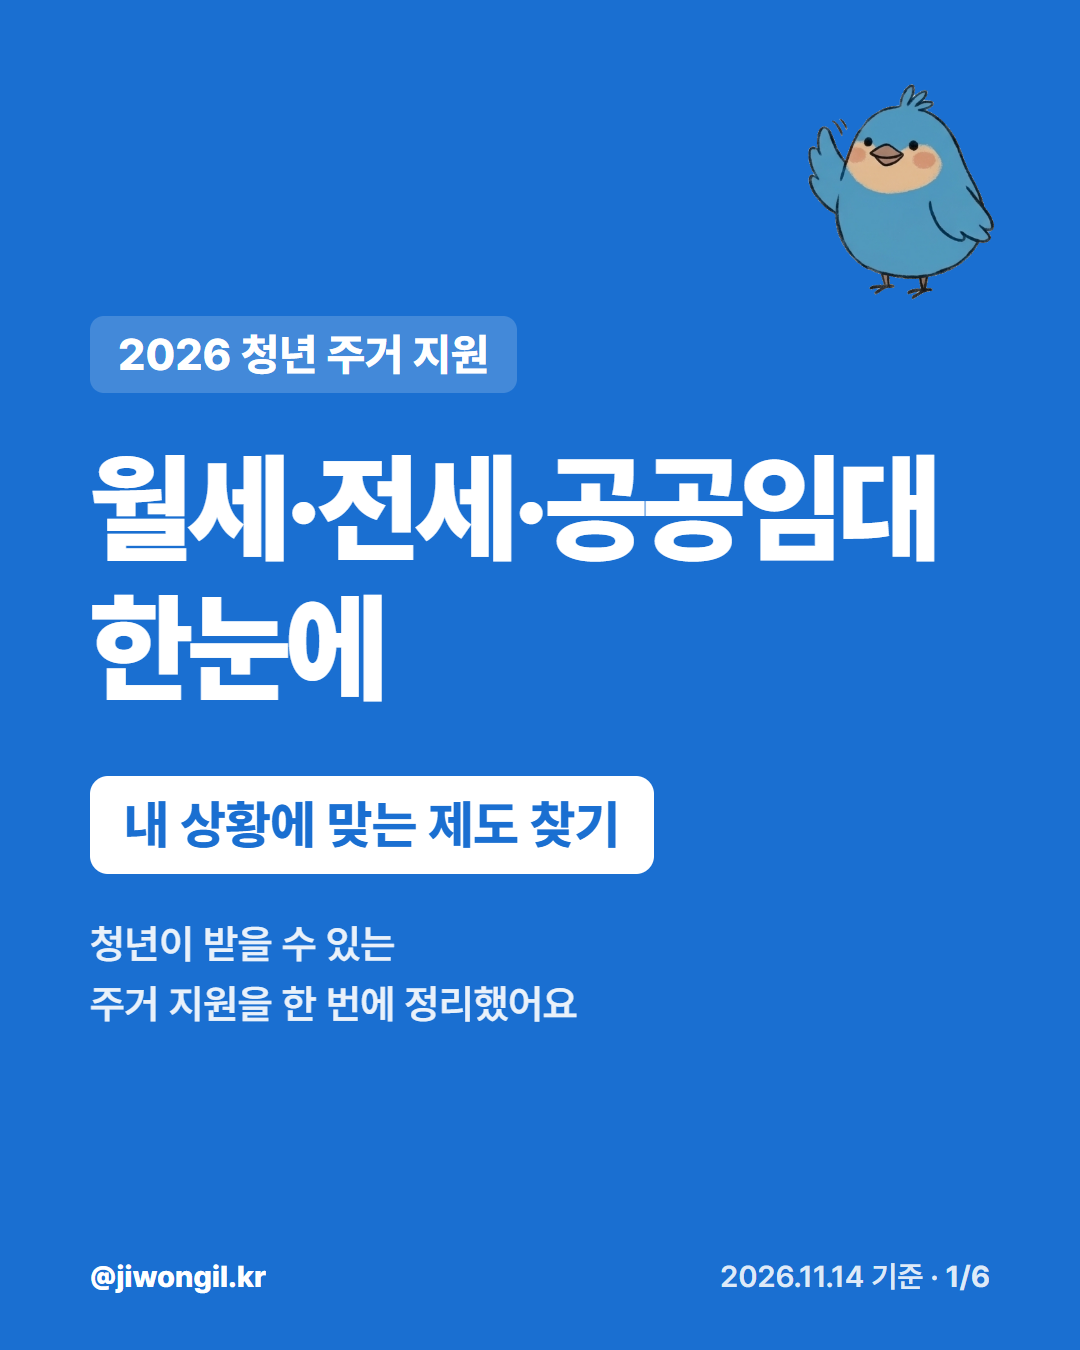
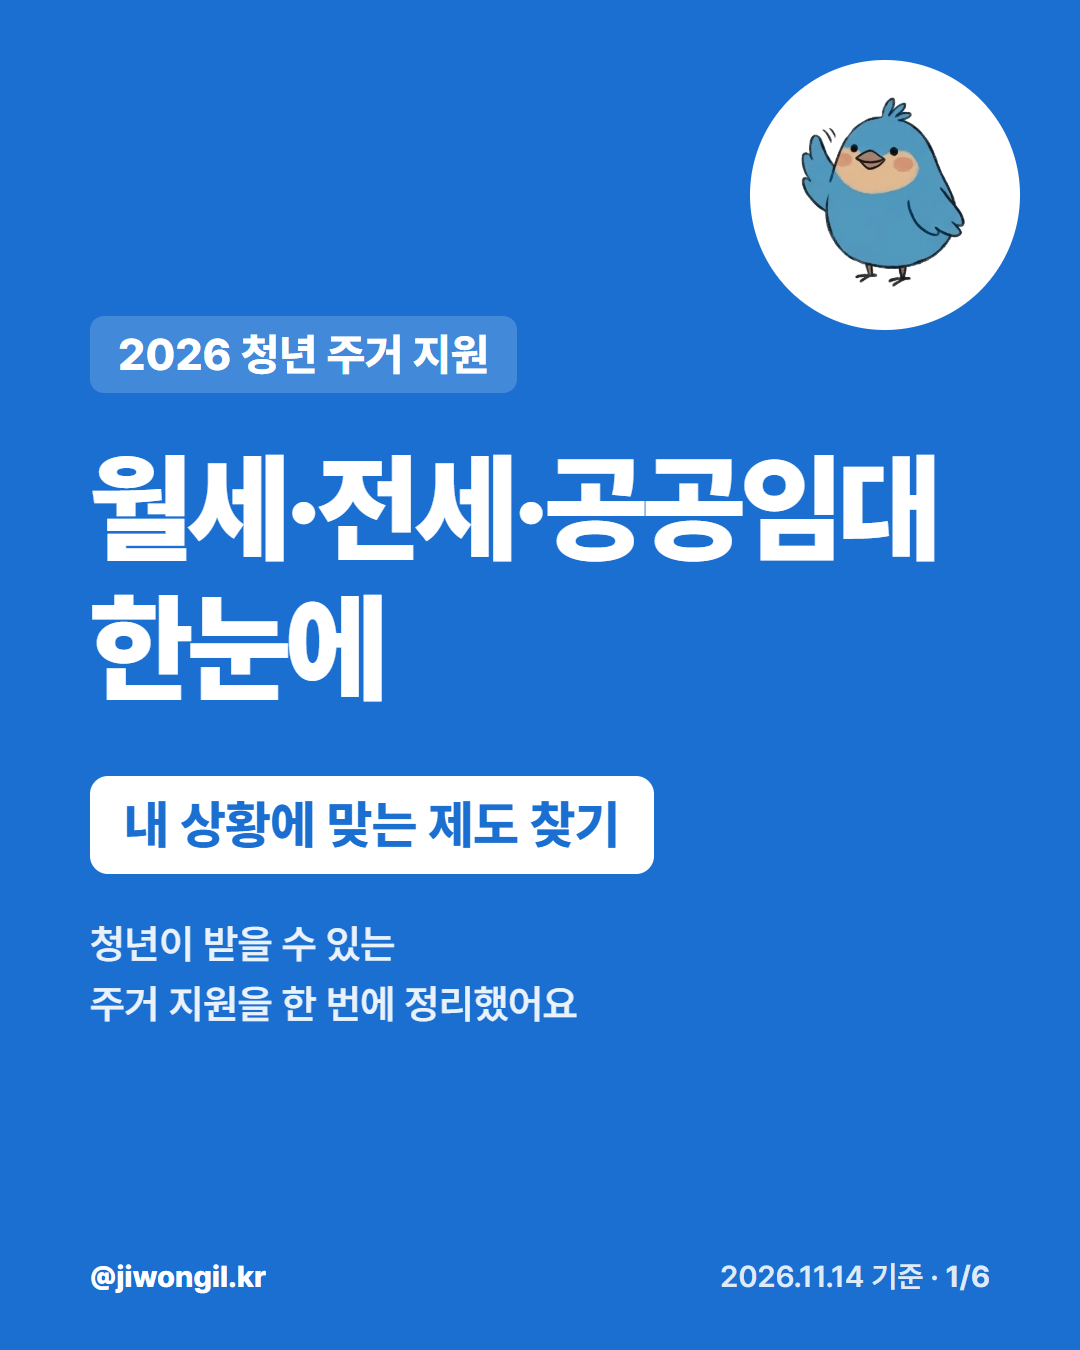
흐름도 7장 번호를 위→아래 한 번씩으로 재배치(디딤돌·버팀목·신혼전세·디딤씨앗·양육수당·통신감면·미숙아, Fable 검토 ⚠4 중 2 반영) + 인스타 cover 표지 새도 흰 원으로 통일·청년 주거 1장 재캡처

Changed region(s): [[0.6722, 0.0311, 0.9472, 0.2489]]

diff --git a/_tools/flow/premature-infant-medical-support-2026.html b/_tools/flow/premature-infant-medical-support-2026.html
@@ -1,17 +1,17 @@
 <!doctype html><html><head><meta charset="utf-8"><title>flow</title></head><body><script>
 // 번호 = 본문 "신청 순서" 단계 번호. 출생 보고·안내·지급 주체는 보건소(모자보건사업 안내 업무 흐름)
-window.FLOW = { height: 1220, label: "2026 미숙아·선천성이상아 의료비 지원",
+window.FLOW = { height: 1310, label: "2026 미숙아·선천성이상아 의료비 지원",
   note: { main: "아기 (최종) 퇴원일부터 6개월 안에 신청해요", sub: "출생신고 전이면 부모 주소지 관할 보건소에 신청" },
-  applicant: { y0: 340, y1: 1060, lines: ["부모"] },
+  applicant: { y0: 340, y1: 1160, lines: ["부모"] },
   boxes: [
-    { y: 340, h: 180, lines: [["title", "병원"], ["em", "서류 발급"]] },
-    { y: 640, h: 420, main: 1, lines: [["title", "보건소"], ["text", "지원 안내"], ["text", "신청 접수"], ["em", "의료비 지급"]] } ],
+    { y: 340, h: 200, main: 1, lines: [["title", "보건소"], ["text", "병원의 출생 보고 접수"], ["em", "지원 안내"]] },
+    { y: 620, h: 160, lines: [["title", "병원"], ["em", "서류 발급"]] },
+    { y: 860, h: 300, main: 1, lines: [["title", "보건소"], ["text", "신청 접수"], ["em", "의료비 지급"]] } ],
   arrows: [
-    { type: "out", y: 460, n: 2, label: "서류 받기", sub: ["영수증 등"] },
-    { type: "v", y0: 520, y1: 640, label: "출생 보고" },
-    { type: "out", y: 720, dash: 1, n: 1, label: "보건소\n안내 확인", sub: ["우편·문자", "접수 후 1개월 안"] },
-    { type: "in", y: 880, n: 3, label: "신청", sub: ["아기 주소지 관할"] },
-    { type: "out", y: 1010, n: 4, label: "지급", sub: ["한 달 안 원칙"] } ],
-  notesY: 1120, notes: ["온라인 신청: e보건소 공공보건포털, 아이마중 앱"],
+    { type: "out", y: 470, dash: 1, n: 1, label: "보건소\n안내 확인", sub: ["우편·문자", "접수 후 1개월 안"] },
+    { type: "out", y: 740, n: 2, label: "서류 받기", sub: ["영수증 등"] },
+    { type: "in", y: 960, n: 3, label: "신청", sub: ["아기 주소지 관할"] },
+    { type: "out", y: 1110, n: 4, label: "지급", sub: ["한 달 안 원칙"] } ],
+  notesY: 1220, notes: ["온라인 신청: e보건소 공공보건포털, 아이마중 앱"],
   foot: "2026.10.31 기준 · 출처: 보건복지부·복지로" };
 </script><script src="flow.js"></script></body></html>

diff --git a/_tools/flow/newborn-home-loan-2026.html b/_tools/flow/newborn-home-loan-2026.html
@@ -1,17 +1,17 @@
 <!doctype html><html><head><meta charset="utf-8"><title>flow</title></head><body><script>
-// 번호 = 본문 "어떻게 신청하나요?" 1~6. 3(자산심사)은 본문에 주체가 없어 메모로
+// 번호 = 본문 "어떻게 신청하나요?" 1~6. 3(자산심사)은 본문에 주체가 없어 메모로. 번호는 위에서 아래로 한 번씩만(11-14 사용자 지적)
 window.FLOW = { height: 1330, label: "2026 신생아 특례 디딤돌 대출",
   note: { steps: [[1, "대출조건 확인"]], sub: "신청은 소유권이전등기 전 · 이미 등기했다면 등기 접수 후 3개월 안" },
   applicant: { y0: 340, y1: 1140, lines: [] },
   boxes: [
-    { y: 340, h: 300, main: 1, lines: [["head", "온라인 신청"], ["title", "기금e든든"], ["text", "주택도시보증공사"]] },
-    { y: 740, h: 400, lines: [["title", "취급 은행"], ["text", "우리·국민·신한·농협·하나"], ["text", "소득·담보물 심사"], ["em", "대출 실행"]] } ],
+    { y: 340, h: 170, main: 1, lines: [["head", "대출 신청 (중 1곳)"], ["title", "기금e든든 온라인"], ["text", "은행 방문"]] },
+    { y: 590, h: 170, lines: [["title", "주택도시보증공사"], ["em", "자산심사 결과 문자"]] },
+    { y: 840, h: 300, lines: [["title", "취급 은행"], ["text", "우리·국민·신한·농협·하나"], ["text", "소득·담보물 심사"], ["em", "대출 실행"]] } ],
   arrows: [
-    { type: "in", y: 410, n: 2, label: "대출 신청" },
-    { type: "out", y: 610, n: 4, label: "결과 문자", sub: ["자산심사 결과"] },
-    { type: "in", y: 810, n: 2, label: "은행 방문" },
-    { type: "in", y: 955, n: 5, label: "서류 제출" },
+    { type: "in", y: 425, n: 2, label: "대출 신청" },
+    { type: "out", y: 720, n: 4, label: "결과 문자", sub: ["자산심사 결과"] },
+    { type: "in", y: 930, n: 5, label: "서류 제출" },
     { type: "out", y: 1095, n: 6, label: "대출받기", sub: ["한도 확인 후"] } ],
-  notesY: 1200, notes: [[3, "자산심사 받기", 495]],
+  notesY: 1200, notes: [[3, "자산심사 받기", 562]],
   foot: "2026.11.14 기준 · 출처: 주택도시기금" };
 </script><script src="flow.js"></script></body></html>

diff --git a/_tools/flow/telecom-fee-discount-2026.html b/_tools/flow/telecom-fee-discount-2026.html
@@ -1,15 +1,15 @@
 <!doctype html><html><head><meta charset="utf-8"><title>flow</title></head><body><script>
 // 번호 = 본문 "어떻게 신청하나요?" 1~4 (3 동의는 메모로)
-window.FLOW = { height: 1110, label: "취약계층 통신요금 감면",
-  applicant: { y0: 200, y1: 920, lines: [] },
+window.FLOW = { height: 1160, label: "취약계층 통신요금 감면",
+  applicant: { y0: 200, y1: 970, lines: [] },
   boxes: [
     { y: 200, h: 240, main: 1, lines: [["head", "신청 (중 편한 곳)"], ["title", "통신사 대리점"], ["text", "주민센터"], ["text", "복지로·정부24 온라인"]] },
     { y: 520, h: 150, lines: [["title", "휴대전화 1523"], ["em", "대상 확인 후 신청"]] },
-    { y: 750, h: 170, lines: [["title", "시·군·구청 또는 통신사"], ["em", "확인 후 감면 적용"]] } ],
+    { y: 800, h: 170, lines: [["title", "시·군·구청 또는 통신사"], ["em", "확인 후 감면 적용"]] } ],
   arrows: [
     { type: "in", y: 320, n: 1, label: "신청할 곳\n고르기" },
     { type: "in", y: 595, n: 2, label: "1523 전화" },
-    { type: "out", y: 835, n: 4, label: "심사·감면" } ],
-  notesY: 980, notes: [[3, "자격 확인 동의: 신청할 때, 자격 정보 조회에 동의"], "문의: 1523(통신사 ARS), 과기정통부 1335"],
+    { type: "out", y: 885, n: 4, label: "심사·감면" } ],
+  notesY: 1030, notes: ["문의: 1523(통신사 ARS), 과기정통부 1335", [3, "자격 확인 동의: 신청할 때,", 718], "+자격 정보 조회에 동의"],
   foot: "2026.11.8 기준 · 출처: 과기정통부 고시·복지로·정부24" };
 </script><script src="flow.js"></script></body></html>

diff --git a/_tools/flow/home-care-allowance-2026.html b/_tools/flow/home-care-allowance-2026.html
@@ -2,14 +2,13 @@
 // 번호 = 본문 "어떻게 신청하나요?" 1~3
 window.FLOW = { height: 1000, label: "2026 가정양육수당",
   note: { main: "기간 없이 상시 신청할 수 있어요", sub: "어린이집·유치원에 보내기 시작하면 변경 신청 필수" },
-  applicant: { y0: 340, y1: 830, lines: [] },
+  applicant: { y0: 340, y1: 890, lines: [] },
   boxes: [
     { y: 340, h: 200, main: 1, lines: [["head", "신청 (중 1곳)"], ["title", "읍·면·동 주민센터"], ["text", "복지로·정부24 온라인"]] },
-    { y: 630, h: 200, lines: [["title", "시·군·구"], ["text", "자격 확인"], ["em", "결정·입금"]] } ],
+    { y: 690, h: 200, lines: [["title", "시·군·구"], ["text", "자격 확인"], ["em", "결정·입금"]] } ],
   arrows: [
     { type: "in", y: 440, n: 1, label: "신청" },
-    { type: "v", y0: 540, y1: 630, label: "" },
-    { type: "out", y: 750, n: 3, label: "결정·입금", sub: ["매월 25일"] } ],
-  notesY: 900, notes: [[2, "서류: 사회보장급여 신청(변경)서, 통장 사본"]],
+    { type: "out", y: 810, n: 3, label: "결정·입금", sub: ["매월 25일"] } ],
+  notesY: 600, notes: [[2, "서류: 사회보장급여 신청(변경)서,", 600], "+통장 사본"],
   foot: "2026.10.28 기준 · 출처: 교육부·복지로·보조금24" };
 </script><script src="flow.js"></script></body></html>

diff --git a/_tools/flow/flow.js b/_tools/flow/flow.js
@@ -59,7 +59,7 @@
   // 넘침 검사: 화살표 라벨·작은 글씨는 x 472, 메모·세로 화살표 글씨는 x 872, 상자 글씨는 상자 안(482~842)을 넘으면 제목에 WIDE 표시
   const bad = [];
   document.querySelectorAll("text").forEach(t => { if (!t.textContent.trim() || +t.getAttribute("y") < F.applicant.y0) return; const b = t.getBBox(), x = +t.getAttribute("x");
-    const lim = x === 662 ? [482, 842] : x === 686 ? [482, 872] : x < 400 && x > 250 ? [0, t.textContent.startsWith("※") || x === 296 || +t.getAttribute("y") > F.applicant.y1 ? 872 : 472] : null;
+    const lim = x === 662 ? [482, 842] : x === 686 ? [482, 872] : x < 400 && x > 250 ? [0, t.textContent.startsWith("※") || x === 296 || +t.getAttribute("y") > F.applicant.y1 || !F.boxes.some(q => +t.getAttribute("y") > q.y - 10 && +t.getAttribute("y") < q.y + q.h + 30) ? 872 : 472] : null;  // 상자 사이 빈칸의 메모는 오른쪽 끝까지
     if (lim && (b.x < lim[0] || b.x + b.width > lim[1])) bad.push(t.textContent); });
   document.title = bad.length ? "WIDE: " + bad.join(" | ") : "OK";
 })();

diff --git a/_tools/insta.html b/_tools/insta.html
@@ -693,7 +693,7 @@ if (ch) {
   // 오른쪽에 놓이는 캐릭터는 글 쪽(왼쪽)을 보게: 원본이 오른쪽을 보는 포즈만 뒤집는다 (2026-11-10 사용자 지정)
   const flip = ["hello", "talk", "think"].includes(ch) ? " face-left" : "";
   if (ch !== "perch") slide.classList.add("has-char");
-  slide.insertAdjacentHTML("beforeend", s.type === "hero" ? `<div class="char-wrap char-x${flip}"><img src="${src}" alt=""></div>`
+  slide.insertAdjacentHTML("beforeend", s.type === "hero" || s.type === "cover" ? `<div class="char-wrap char-x${flip}"><img src="${src}" alt=""></div>`
     : ch === "perch" ? `<img class="perch char-x" src="${src}" alt="">` : `<img class="char char-x${flip}" src="${src}" alt="">`);
 }
 // 넘침 검사: 본문 마지막 요소가 아래 표시줄(foot)과 겹치면 제목에 OVERFLOW 표시 (dump-dom으로 확인)

diff --git a/_tools/flow/newlywed-jeonse-loan-2026.html b/_tools/flow/newlywed-jeonse-loan-2026.html
@@ -10,8 +10,8 @@ window.FLOW = { height: 1270, label: "2026 신혼부부전용 전세자금",
   arrows: [
     { type: "in", y: 445, n: 4, label: "대출 신청" },
     { type: "v", y0: 550, y1: 640, n: 5, label: "자산 심사" },
-    { type: "out", y: 725, dash: 1, n: 5, label: "결과 문자" },
+    { type: "out", y: 725, dash: 1, label: "결과 문자" },
     { type: "in", y: 980, n: 6, label: "서류 제출" },
-    { type: "out", y: 1085, n: 6, label: "대출 실행" } ],
+    { type: "out", y: 1085, label: "대출 실행" } ],
   foot: "2026.11.9 기준 · 출처: 주택도시기금" };
 </script><script src="flow.js"></script></body></html>

diff --git a/_tools/flow/newborn-jeonse-loan-2026.html b/_tools/flow/newborn-jeonse-loan-2026.html
@@ -10,8 +10,8 @@ window.FLOW = { height: 1270, label: "2026 신생아 특례 버팀목",
   arrows: [
     { type: "in", y: 445, n: 4, label: "대출 신청" },
     { type: "v", y0: 550, y1: 640, n: 5, label: "자산 심사" },
-    { type: "out", y: 725, dash: 1, n: 5, label: "결과 문자" },
+    { type: "out", y: 725, dash: 1, label: "결과 문자" },
     { type: "in", y: 980, n: 6, label: "서류 제출" },
-    { type: "out", y: 1085, n: 6, label: "대출 실행" } ],
+    { type: "out", y: 1085, label: "대출 실행" } ],
   foot: "2026.11.11 기준 · 출처: 주택도시기금" };
 </script><script src="flow.js"></script></body></html>

diff --git a/_tools/flow/didim-seed-account-2026.html b/_tools/flow/didim-seed-account-2026.html
@@ -10,7 +10,7 @@ window.FLOW = { height: 1230, label: "2026 디딤씨앗통장",
   arrows: [
     { type: "in", y: 440, n: 1, label: "신청" },
     { type: "v", y0: 540, y1: 630, n: 2, label: "" },
-    { type: "v", y0: 800, y1: 890, n: 2, label: "통장 발급" },
+    { type: "v", y0: 800, y1: 890, label: "통장 발급" },
     { type: "in", y: 1000, n: 3, label: "매달 적립" } ],
   notesY: 1120, notes: ["월 5만 원까지 정부가 2배(최대 10만 원) 매칭", "잘못 받은 정부 매칭금은 돌려줘야 해요"],
   foot: "2026.10.28 기준 · 출처: 국가아동권리보장원·정부24·복지로" };

diff --git a/CLAUDE.md b/CLAUDE.md
@@ -150,7 +150,7 @@ date: YYYY-MM-DD HH:MM:SS +0900
   - 요약 카드(쓰레드 링크 카드): `guide` 기본(`_tools/card.html`이 자동으로 넣음, 다른 포즈는 `char:`). 신청기간 만료 도장 카드에는 넣지 않는다
   - 핵심 요약 상자 오른쪽 위: `talk`(좌우 반전, 글 쪽을 봄) — `assets/js/post-enhance.js`가 자동으로 넣음
   - 신청 흐름도 오른쪽 위: `think`
-  - 인스타 카드: 표지 `hello`, 장 순서로 2장 `think`·3장 `guide`·4장 `talk`(좌우 반전)(2026-11-10 사용자 지정, 내용과 상관없이 자리로 정함), 5장부터는 "놓치기 쉬운 점" `think`, 마지막 장 아래쪽에 새 여섯 마리 `perch`, 새 지원·신청 시작 소식 `happy` (`_tools/insta.html`이 자동으로 넣음)
+  - 인스타 카드: 표지 `hello`(표지는 `cover`·`hero` 모두 흰 원 안에, 2026-11-14 사용자 지적: 허브 표지만 원 없이 나와 달라 보였음), 장 순서로 2장 `think`·3장 `guide`·4장 `talk`(좌우 반전)(2026-11-10 사용자 지정, 내용과 상관없이 자리로 정함), 5장부터는 "놓치기 쉬운 점" `think`, 마지막 장 아래쪽에 새 여섯 마리 `perch`, 새 지원·신청 시작 소식 `happy` (`_tools/insta.html`이 자동으로 넣음)
   - **캐릭터는 글 쪽을 본다** (2026-11-10 사용자 지정): 오른쪽에 놓이면 왼쪽을 보게 한다. 원본이 오른쪽을 보는 `hello`·`talk`·`think`는 좌우 반전(`insta.html`·`card.html`이 자동으로 함), 정면인 `happy`·`guide`는 그대로. 새 도구·새 자리에도 같은 규칙
   - 모든 화면 맨 아래 하단 윗선: 새 여섯 마리 `perch`(`assets/main.scss` 11번). 위쪽 바·본문 사이 여백에는 넣지 않는다(어울리지 않아 사용자와 제외)
   - 홈 소개 영역에는 넣지 않는다(사용자 지정: 글만)
@@ -159,6 +159,7 @@ date: YYYY-MM-DD HH:MM:SS +0900
   - 캡처 전에 dump-dom으로 제목이 `OK`인지 확인한다(`WIDE: …`면 글자가 상자·테두리를 넘침 → 줄이거나 `\n`으로 두 줄, 메모는 `"+…"`로 이어 쓰기). 라벨 안 `\n`은 실제 줄바꿈이 아니라 백슬래시+n으로 적는다(실제 줄바꿈이면 그림이 비어 나옴).
   - 본문에 주체가 없는 단계(누가 결정·지급하는지 안 적힌 단계)는 화살표 대신 메모(`[번호, "…"]`)로 쓴다. 온라인 창구는 돈을 주는 기관 상자에 함께 넣지 않는다.
   - 번호는 본문 단계 번호와 같게, 단계·기관 이름은 본문 그대로 쓴다(새 정보 금지). fact-checker 검토 대상에 넣는다.
+  - **번호는 그림 위에서 아래로 1, 2, 3… 차례로, 한 번씩만** 나오게 배치한다(2026-11-14 사용자 지적: 디딤돌 그림에 2가 두 번, 2→3→4→2→5로 읽혀 헷갈림). 창구가 둘이면 상자 하나에 "(중 1곳)"으로 묶고, 같은 단계의 결과 화살표에는 번호를 다시 달지 않는다. 캡처 전에 순서 검사(번호를 y 순으로 늘어놓아 중복·역순 확인)도 한다.
   - 대체 텍스트에 모든 단계를 글자로 적는다.
   - 기존 글은 쓰레드 조회수 높은 순으로 하루 2~3개(일정에 여유 있으면 더) 추가한다.
   - **총정리(허브, `hub: true`) 글은 넣지 않는다**(여러 제도라 흐름이 하나가 아님, 2026-11-10 사용자 확정). 공식 자료에 신청 경로가 확인되지 않는 글(예: 근로·자녀장려금 기한 후 신청)도 그리지 않는다.

diff --git a/_posts/2026-10-31-premature-infant-medical-support-2026.md b/_posts/2026-10-31-premature-infant-medical-support-2026.md
@@ -163,7 +163,7 @@ apply_name: "e보건소"
 
 ### 신청 순서
 
-![신청 흐름: 아기 (최종) 퇴원일부터 6개월 안에 신청(출생신고 전이면 부모 주소지 관할 보건소). 병원이 보건소에 출생 보고, 1 보건소가 보고 접수 후 1개월 안에 우편·문자로 지원 안내, 2 병원에서 영수증 등 서류 받기, 3 아기 주소지 관할 보건소에 신청(온라인: e보건소 공공보건포털, 아이마중 앱), 4 보건소가 한 달 안 지급 원칙](/assets/images/flow/premature-infant-medical-support-2026.png){: .flow-chart}
+![신청 흐름: 아기 (최종) 퇴원일부터 6개월 안에 신청(출생신고 전이면 부모 주소지 관할 보건소). 병원이 보건소에 출생 보고, 1 보건소가 보고 접수 후 1개월 안(넘겨받은 경우 2주 안)에 우편·문자로 지원 안내, 2 병원에서 영수증 등 서류 받기, 3 아기 주소지 관할 보건소에 신청(온라인: e보건소 공공보건포털, 아이마중 앱), 4 보건소가 한 달 안 지급 원칙](/assets/images/flow/premature-infant-medical-support-2026.png){: .flow-chart}
 
 1. **보건소 안내 확인**: 병원이 미숙아·선천성이상아 출생을 보건소에 보고하면, 보건소가 보고를 받은 날부터 1개월 안에(다른 보건소에서 넘겨받은 경우 2주 안에) 우편이나 문자로 지원 내용을 알려 줘요. (출처①)
 2. **병원에서 서류 받기**: 진료비 영수증, 진료비 세부내역서, 출생보고서(미숙아) 또는 진단서·입퇴원확인서(선천성이상아)를 받아요. (출처①)

diff --git a/_posts/2026-11-14-newborn-home-loan-2026.md b/_posts/2026-11-14-newborn-home-loan-2026.md
@@ -186,7 +186,7 @@ apply_name: "기금e든든"
 
 ## 어떻게 신청하나요?
 
-![신생아 특례 디딤돌 대출 신청 흐름: 1 대출조건 확인(기금포털 또는 은행 상담), 2 대출 신청(기금e든든 온라인 또는 은행 방문, 소유권이전등기 전, 이미 등기했다면 등기 접수 후 3개월 안), 3 자산심사, 4 자산심사 결과 문자 받기(주택도시보증공사), 5 은행에 서류 제출·소득·담보물 심사, 6 대출 가능 여부와 한도 확인 후 대출 실행](/assets/images/flow/newborn-home-loan-2026.png){: .flow-chart}
+![신생아 특례 디딤돌 대출 신청 흐름: 1 대출조건 확인(주택도시기금 누리집 또는 은행 상담), 2 대출 신청(기금e든든 온라인 또는 은행 방문, 소유권이전등기 전, 이미 등기했다면 등기 접수 후 3개월 안), 3 자산심사, 4 자산심사 결과 문자 받기(주택도시보증공사), 5 은행에 서류 제출·소득·담보물 심사, 6 대출 가능 여부와 한도 확인 후 대출 실행](/assets/images/flow/newborn-home-loan-2026.png){: .flow-chart}
 
 1. **대출조건 확인하기**: 주택도시기금 누리집이나 은행 상담으로 기본 조건을 확인해요. (출처③)
 2. **대출 신청하기**: '기금e든든'에서 온라인으로 신청하거나 은행에 가서 신청해요. **소유권이전등기 전**에 신청하고, 이미 등기했다면 등기 접수일부터 **3개월 안**에 신청해야 해요. (출처①③)
